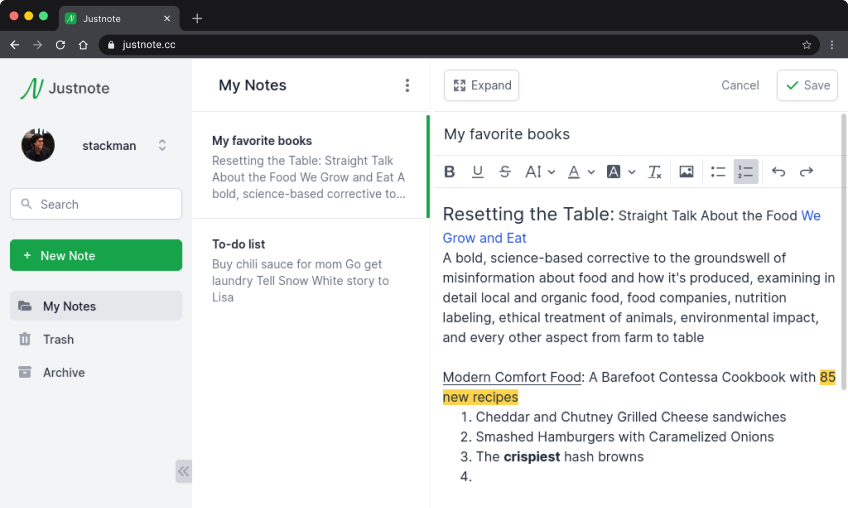
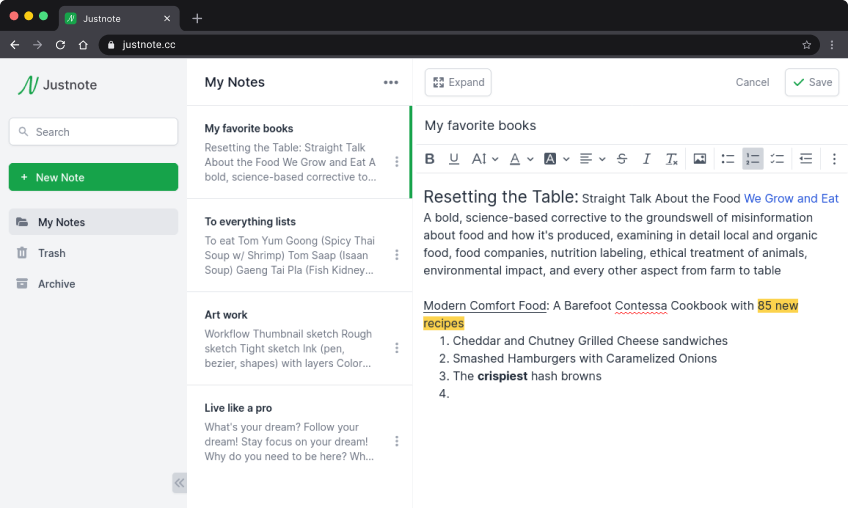
Update screenshots in images

diff --git a/packages/web/src/components/Landing.js b/packages/web/src/components/Landing.js
@@ -28,7 +28,7 @@ import ubiquitous4x from '../images/ubiquitous@4x.png';
 import availableOnPlayStore from '../images/available-on-play-store.svg';
 import availableOnAppStore from '../images/available-on-app-store.svg';
 
-import creator from '../images/creator.jpg';
+import creator from '../images/creator.png';
 
 const Landing = () => {
 
